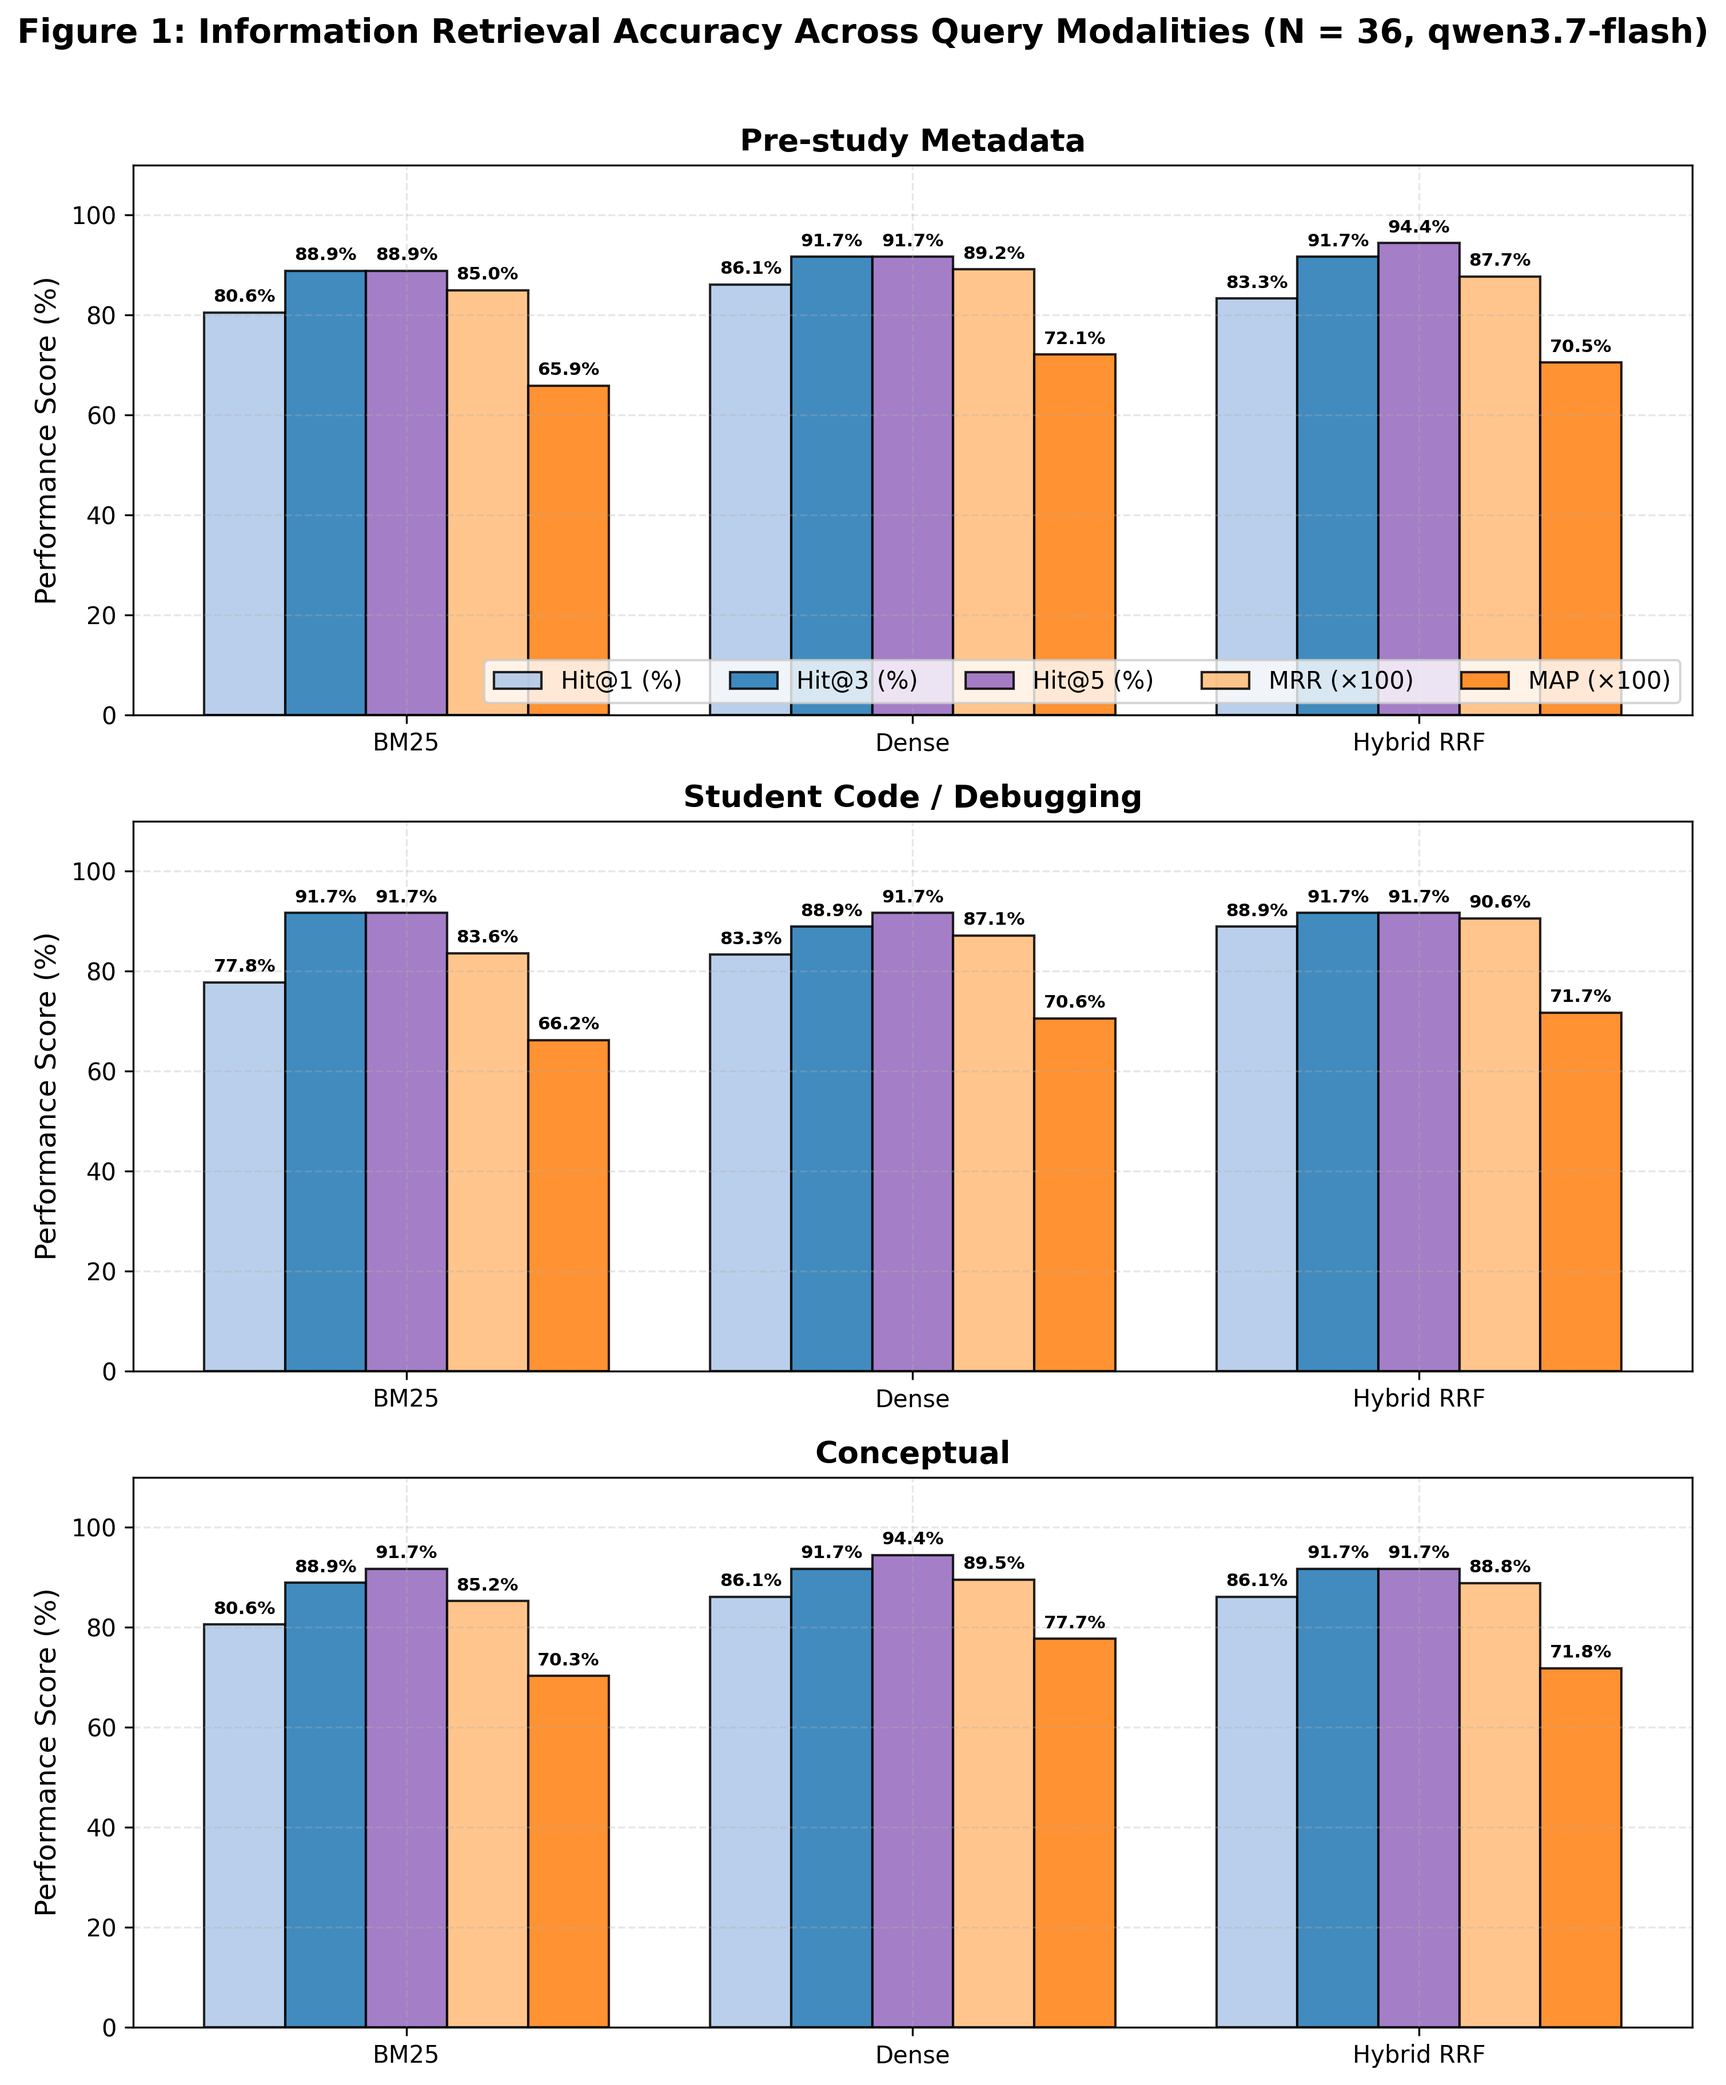
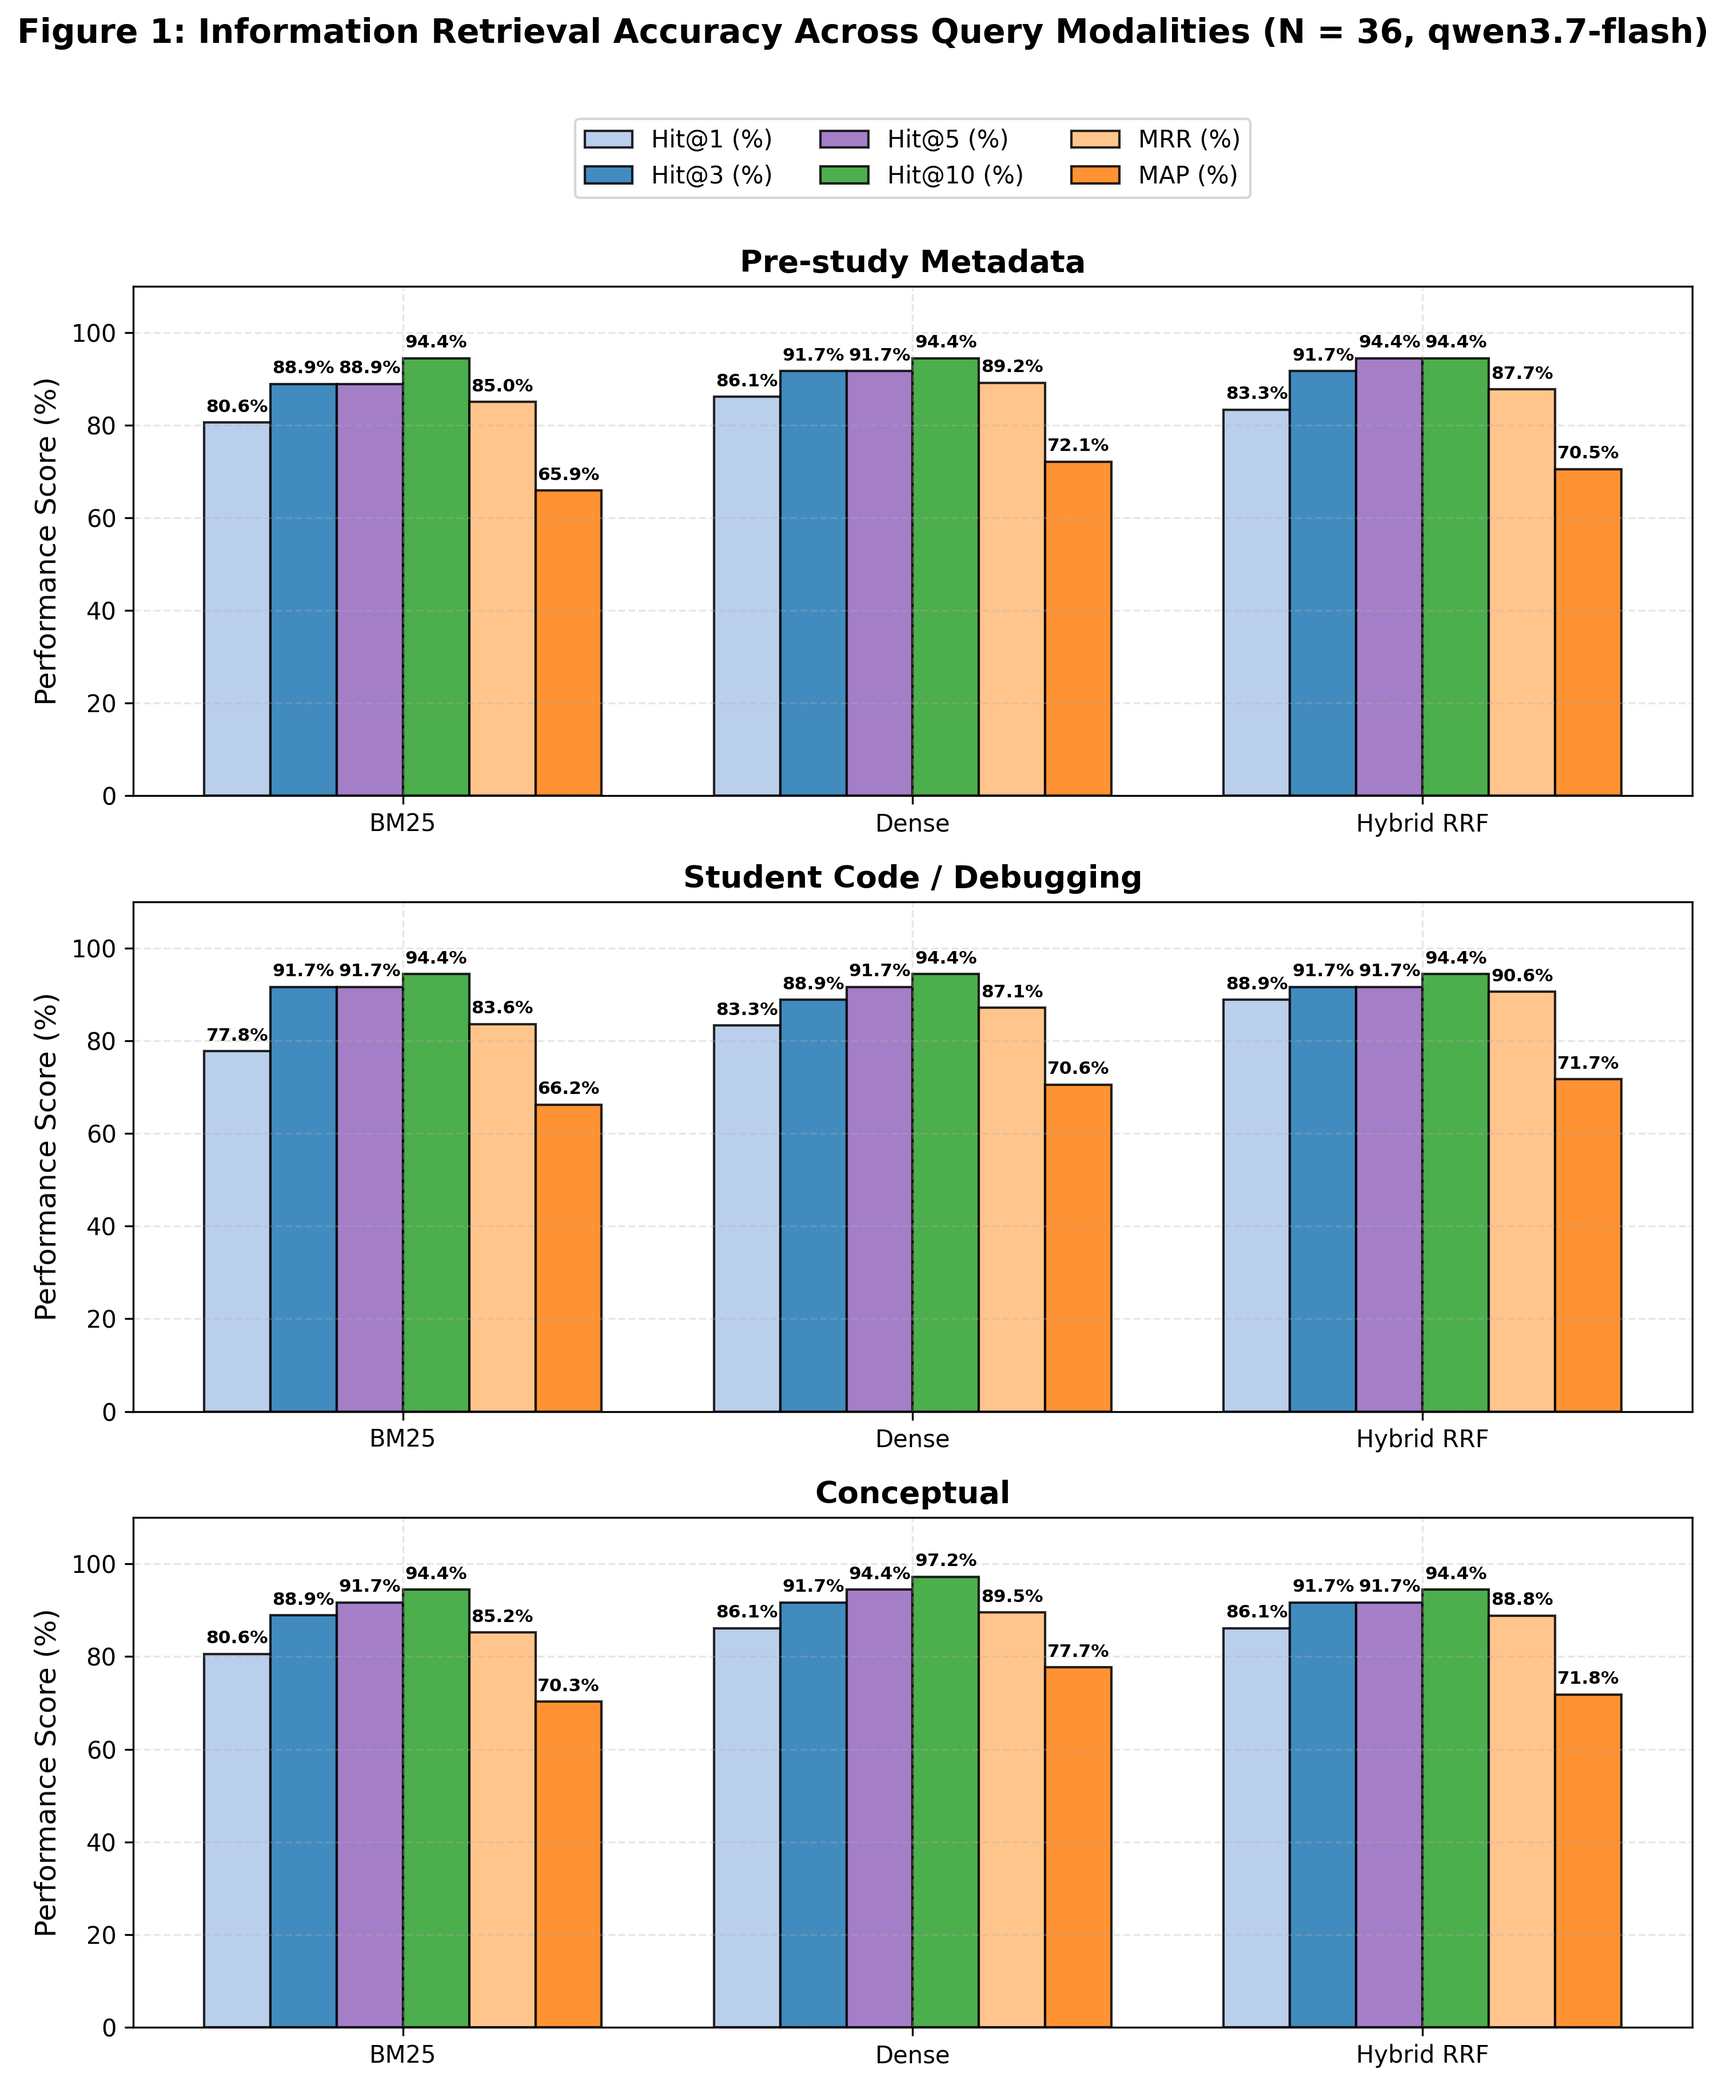
[Result] include Hit@10 in Figure 1 [Result] updated Figure 2 to include the data from the separate experiment alongside the consolidated experiment. Figure 2 is now a 2x2 grid, structured as follows: - Top Row: Consolidated Pre-study Guide & Consolidated AI Feedback - Bottom Row: Separate Pre-study

diff --git a/rag-server/plot_results.py b/rag-server/plot_results.py
@@ -96,19 +96,21 @@ def plot_fig1_ir_benchmark():
 
     for ax, mod in zip(axes, modalities):
         x = np.arange(len(engines))
-        width = 0.16
+        width = 0.13
 
         h1 = [data[mod].get(eng, {}).get('hit@1', 0) for eng in engines]
         h3 = [data[mod].get(eng, {}).get('hit@3', 0) for eng in engines]
         h5 = [data[mod].get(eng, {}).get('hit@5', 0) for eng in engines]
+        h10 = [data[mod].get(eng, {}).get('hit@10', 0) for eng in engines]
         mrr = [data[mod].get(eng, {}).get('mrr', 0) * 100 for eng in engines]
         map_score = [data[mod].get(eng, {}).get('map', 0) * 100 for eng in engines]
 
-        r1 = ax.bar(x - 2*width, h1, width, label='Hit@1 (%)', color=PALETTE['light_blue'], edgecolor='black', alpha=0.85)
-        r2 = ax.bar(x - width, h3, width, label='Hit@3 (%)', color=PALETTE['primary'], edgecolor='black', alpha=0.85)
-        r3 = ax.bar(x, h5, width, label='Hit@5 (%)', color=PALETTE['purple'], edgecolor='black', alpha=0.85)
-        r4 = ax.bar(x + width, mrr, width, label='MRR (×100)', color=PALETTE['light_orange'], edgecolor='black', alpha=0.85)
-        r5 = ax.bar(x + 2*width, map_score, width, label='MAP (×100)', color=PALETTE['secondary'], edgecolor='black', alpha=0.85)
+        r1 = ax.bar(x - 2.5*width, h1, width, label='Hit@1 (%)', color=PALETTE['light_blue'], edgecolor='black', alpha=0.85)
+        r2 = ax.bar(x - 1.5*width, h3, width, label='Hit@3 (%)', color=PALETTE['primary'], edgecolor='black', alpha=0.85)
+        r3 = ax.bar(x - 0.5*width, h5, width, label='Hit@5 (%)', color=PALETTE['purple'], edgecolor='black', alpha=0.85)
+        r4 = ax.bar(x + 0.5*width, h10, width, label='Hit@10 (%)', color=PALETTE['green'], edgecolor='black', alpha=0.85)
+        r5 = ax.bar(x + 1.5*width, mrr, width, label='MRR (%)', color=PALETTE['light_orange'], edgecolor='black', alpha=0.85)
+        r6 = ax.bar(x + 2.5*width, map_score, width, label='MAP (%)', color=PALETTE['secondary'], edgecolor='black', alpha=0.85)
 
         short_mod = mod.replace(' Query', '')
         ax.set_title(short_mod, fontweight='bold')
@@ -117,7 +119,7 @@ def plot_fig1_ir_benchmark():
         ax.set_ylim(0, 110)
         ax.set_ylabel('Performance Score (%)')
 
-        for bars in [r1, r2, r3, r4, r5]:
+        for bars in [r1, r2, r3, r4, r5, r6]:
             for bar in bars:
                 height = bar.get_height()
                 ax.annotate(f'{height:.1f}%',
@@ -125,7 +127,7 @@ def plot_fig1_ir_benchmark():
                             xytext=(0, 3), textcoords="offset points",
                             ha='center', va='bottom', fontsize=7.5, fontweight='bold')
 
-    axes[0].legend(loc='lower right', frameon=True, ncol=5)
+    axes[0].legend(loc='lower center', bbox_to_anchor=(0.5, 1.15), frameon=True, ncol=3)
     fig.suptitle(f'Figure 1: Information Retrieval Accuracy Across Query Modalities (N = 36, {model_name})', fontweight='bold', y=1.01)
     plt.tight_layout()
     out_path = os.path.join(FIG_DIR, f'fig1_ir_benchmark_{model_name}.png')
@@ -141,52 +143,64 @@ def plot_fig2_ragas_evaluation():
         d = data['summary']['AI Feedback']['Dense Embedding (ChromaDB)']
         return d['faithfulness'] + d['answer_relevancy']
 
-    ragas_file, model_name = get_best_model_file('ragas_eval_consolidated_*.json', score_ragas)
-    if not ragas_file:
+    ragas_file_cons, model_name = get_best_model_file('ragas_eval_consolidated_*.json', score_ragas)
+    if not ragas_file_cons:
         print("⚠ RAGAs result file not found, skipping Fig 2.")
         return
 
-    with open(ragas_file, 'r', encoding='utf-8') as f:
-        data = json.load(f).get('summary', {})
+    ragas_file_sep = ragas_file_cons.replace('consolidated', 'separate')
+
+    with open(ragas_file_cons, 'r', encoding='utf-8') as f:
+        data_cons = json.load(f).get('summary', {})
+        
+    data_sep = {}
+    if os.path.exists(ragas_file_sep):
+        with open(ragas_file_sep, 'r', encoding='utf-8') as f:
+            data_sep = json.load(f).get('summary', {})
 
     scenarios = ['Pre-study Guide', 'AI Feedback']
     metrics = ['faithfulness', 'answer_relevancy', 'context_recall', 'context_precision']
     metric_labels = ['Faithfulness', 'Answer Rel.', 'Context Recall', 'Context Prec.']
 
-    fig, axes = plt.subplots(1, 2, figsize=(13, 4.8), sharey=True)
+    fig, axes = plt.subplots(2, 2, figsize=(13, 9.6), sharey=True)
 
     engines = ['BM25-lite (Keyword)', 'Dense Embedding (ChromaDB)', 'Hybrid (BM25 + Dense RRF)']
     engine_labels = ['BM25 Keyword', 'Dense ChromaDB', 'Hybrid RRF']
     colors = [PALETTE['light_blue'], PALETTE['primary'], PALETTE['purple']]
+    
+    datasets = [(data_cons, 'Consolidated'), (data_sep, 'Separate')]
 
-    for ax, scen in zip(axes, scenarios):
-        if scen not in data:
-            continue
-        x = np.arange(len(metrics))
-        width = 0.25
+    for row, (data, data_label) in enumerate(datasets):
+        for col, scen in enumerate(scenarios):
+            ax = axes[row, col]
+            if scen not in data:
+                continue
+            x = np.arange(len(metrics))
+            width = 0.25
 
-        for i, (eng, label, c) in enumerate(zip(engines, engine_labels, colors)):
-            if eng in data[scen]:
-                vals = [data[scen][eng].get(m, 0.0) for m in metrics]
-                offset = (i - 1) * width
-                bars = ax.bar(x + offset, vals, width, label=label, color=c, edgecolor='black', alpha=0.85)
+            for i, (eng, label, c) in enumerate(zip(engines, engine_labels, colors)):
+                if eng in data[scen]:
+                    vals = [data[scen][eng].get(m, 0.0) for m in metrics]
+                    offset = (i - 1) * width
+                    bars = ax.bar(x + offset, vals, width, label=label if row == 0 and col == 0 else "", color=c, edgecolor='black', alpha=0.85)
 
-                for bar in bars:
-                    height = bar.get_height()
-                    if height > 0.05:
-                        ax.annotate(f'{height:.2f}',
-                                    xy=(bar.get_x() + bar.get_width() / 2, height),
-                                    xytext=(0, 2), textcoords="offset points",
-                                    ha='center', va='bottom', fontsize=8)
+                    for bar in bars:
+                        height = bar.get_height()
+                        if height > 0.05:
+                            ax.annotate(f'{height:.2f}',
+                                        xy=(bar.get_x() + bar.get_width() / 2, height),
+                                        xytext=(0, 2), textcoords="offset points",
+                                        ha='center', va='bottom', fontsize=8)
 
-        ax.set_title(f'Scenario: {scen}', fontweight='bold')
-        ax.set_xticks(x)
-        ax.set_xticklabels(metric_labels, rotation=15)
-        ax.set_ylim(0, 1.15)
-        ax.set_ylabel('RAGAs Metric Score [0.0, 1.0]' if ax == axes[0] else '')
+            ax.set_title(f'{data_label}: {scen}', fontweight='bold')
+            ax.set_xticks(x)
+            ax.set_xticklabels(metric_labels, rotation=15)
+            ax.set_ylim(0, 1.15)
+            if col == 0:
+                ax.set_ylabel('RAGAs Metric Score [0.0, 1.0]')
 
-    axes[0].legend(loc='upper right', frameon=True)
-    fig.suptitle(f'Figure 2: End-to-End Generative Evaluation via RAGAs (N = 6, {model_name})', fontweight='bold', y=1.02)
+    axes[0, 0].legend(loc='upper right', frameon=True)
+    fig.suptitle(f'Figure 2: End-to-End Generative Evaluation via RAGAs (N = 6, {model_name})', fontweight='bold', y=1.01)
     plt.tight_layout()
     out_path = os.path.join(FIG_DIR, f'fig2_ragas_evaluation_{model_name}.png')
     plt.savefig(out_path, bbox_inches='tight')
